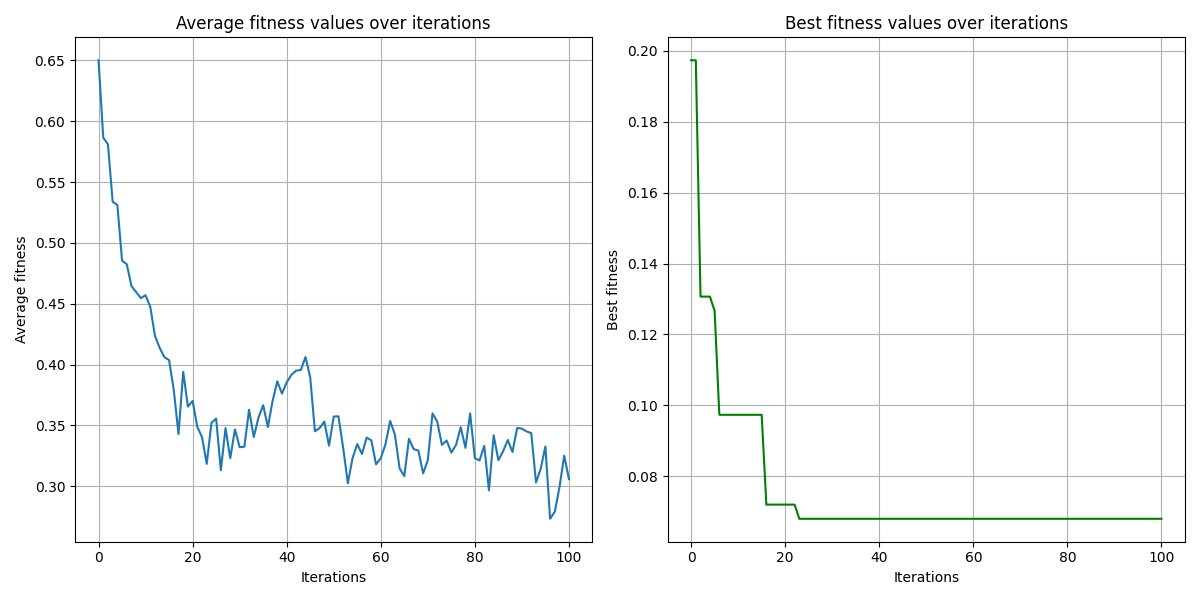
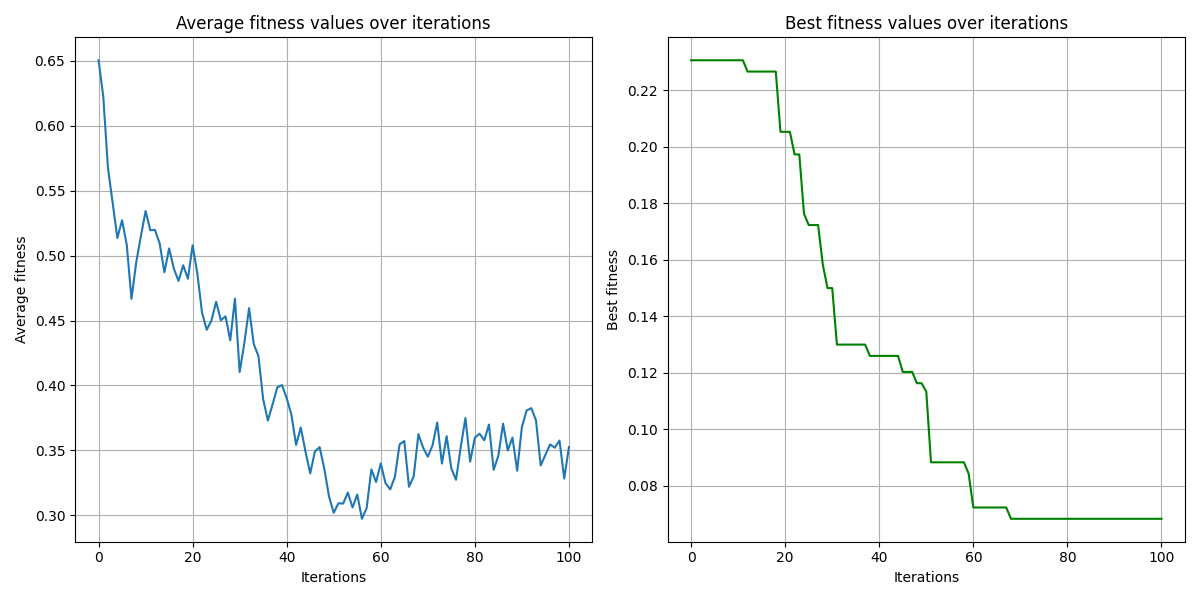
doc: Examples and figures Minor changes to the paper (updated examples and figures)

diff --git a/paper/paper.md b/paper/paper.md
@@ -48,6 +48,7 @@ Even though there are existing Python libraries that use various meta-heuristic 
 _GATree_, a Python library with a modular and extensible architecture, comprised of two classes: _GATree_ and _Node_. The _GATree_ class is responsible for the genetic algorithm by utilising operator classes, such as _Selection_ (with optional elitism), _Crossover_, and _Mutation_. The _Node_ class handles the decision tree structure and its operations. The library is user-friendly and highly customisable - users can easily define custom fitness functions and other parameters to meet their needs. It is implemented to be compatible with the de-facto standard _scikit-learn_ machine learning library; thus, the main methods of use (i.e., _fit()_ and _predict()_) are present in _GATree_. The following example shows how to perform classification of the _iris_ dataset using the _GATree_ library.
 
 ```python
+import pandas as pd
 from sklearn.datasets import load_iris
 from sklearn.model_selection import train_test_split
 from sklearn.metrics import accuracy_score
@@ -57,13 +58,12 @@ from gatree import GATree
 iris = load_iris()
 X = pd.DataFrame(iris.data, columns=iris.feature_names)
 y = pd.Series(iris.target, name='target')
-
 # Split the dataset into training and testing sets
 X_train, X_test, y_train, y_test = train_test_split(
     X, y, test_size=0.2, random_state=10)
 
 # Create and fit the GATree classifier
-gatree = GATree(n_jobs=16, random_state=10)
+gatree = GATree(n_jobs=16, random_state=32)
 gatree.fit(X=X_train, y=y_train, population_size=100, max_iter=100)
 
 # Make predictions on the testing set
@@ -73,15 +73,15 @@ y_pred = gatree.predict(X_test)
 print(accuracy_score(y_test, y_pred))
 ```
 
-In this example, we load the iris dataset and split it into training and testing sets. Next, we create an instance of the _GATree_ classifier and define its parameters, such as the number of jobs to run in parallel and the random state for reproducibility. We then fit the classifier to the training data using a population size of 100 and a maximum of 100 iterations. Finally, we make predictions on the testing set and evaluate the accuracy of the classifier. The _GATree_ classifier uses a genetic algorithm to evolve and optimise the decision tree structure for the classification task. This configuration achieves an accuracy of 96.67% on the testing set, demonstrating the effectiveness of GATree for classification tasks.
+In this example, we load the iris dataset and split it into training and testing sets. Next, we create an instance of the _GATree_ classifier and define its parameters, such as the number of jobs to run in parallel and the random state for reproducibility. We then fit the classifier to the training data using a population size of 100 and a maximum of 100 iterations. Finally, we make predictions on the testing set and evaluate the accuracy of the classifier. The _GATree_ classifier uses a genetic algorithm to evolve and optimise the decision tree structure for the classification task. This configuration achieves an accuracy of 100% on the testing set, demonstrating the effectiveness of GATree for classification tasks.
 
-![Average fitness value and best fitness value at each iteration of the genetic algorithm for the iris dataset.\label{fig:fitness_plot}](./images/fitness_value.png){ width=85% }
+![Average fitness value and best fitness value at each iteration of the genetic algorithm for the iris dataset.\label{fig:fitness_plot}](./images/fitness_value.png){ width=89% }
 
-\autoref{fig:fitness_plot} provides a comprehensive visualisation of the genetic algorithm's progress on the _iris_ dataset. The line graph on the left showcases the average fitness value of each decision tree in the population across iterations, offering insight into the algorithm's overall performance over time. We can observe the most significant improvement in the average fitness value in the first 20 iterations. We can see a slight decline in average fitness values until the 40th iteration, indicating getting stuck in the local optimum while building the decision trees. After the 40. most of the decision trees in the population evolved out of the local optimum into better decision trees, which then stagnated. The slight variations in the final iterations indicate that the population is still changing due to crossover and mutations. However, the average quality of the decision trees in the population stays roughly the same. On the right half, a similar line graph displays the best fitness value at each iteration, providing a more detailed view of the algorithm's progress. The graph shows that the best fitness value improves rapidly in the first 20 iterations and then stagnates until the final iteration. The best decision tree is unaffected by evolving local optimums around the 40. iteration as the average decision tree does but remains near the global optimum, mainly due to the elitism operator.
+\autoref{fig:fitness_plot} provides a comprehensive visualisation of the genetic algorithm's progress on the _iris_ dataset. The line graph on the left showcases the average fitness value of each decision tree in the population across iterations, offering insight into the algorithm's overall performance over time. We can observe the most significant improvement in the average fitness value in the first 50 iterations. We can see a slight decline in average fitness values after the 50th iteration, indicating getting stuck in the local optimum while building the decision trees. The slight variations in the final iterations indicate that the population is still changing due to crossover and mutation. However, the average quality of the decision trees in the population stays roughly the same. On the right half, a similar line graph displays the best fitness value at each iteration, providing a more detailed view of the algorithm's progress. The graph shows that the best fitness value improves rapidly in the first 30 iterations. The best decision tree is unaffected by evolving local optimums around the 70th iteration as the average decision tree does but remains near the global optimum, mainly due to the elitism operator.
 
 \autoref{fig:decision_tree} shows the final decision tree obtained by the _GATree_ classifier after fitting it to the _iris_ dataset.
 
-![Final decision tree obtained by the GATree classifier.\label{fig:decision_tree}](./images/decision_tree.png){ width=75% }
+![Final decision tree obtained by the GATree classifier.\label{fig:decision_tree}](./images/decision_tree.png){ width=70% }
 
 The fitness function can be customised to suit the specific requirements of the classification task. For example, we can define a custom fitness function that considers the decision tree's size, penalising larger trees to encourage simplicity and interpretability. The following example demonstrates defining and using a custom fitness function with the _GATree_ classifier.
 
